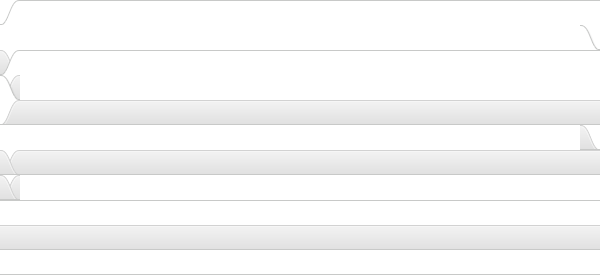
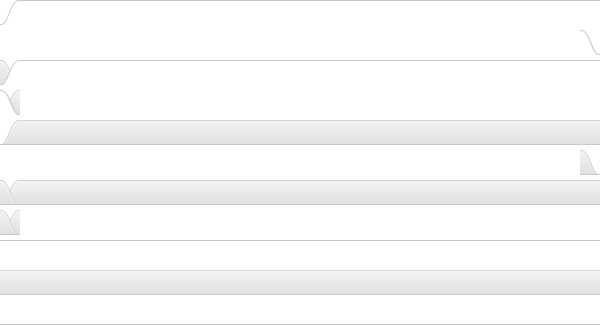
update issue 666 タブメニューが1個のみの場合、「<li class="first last single">」と、最初であり最後かつ、「single」を入れる。 Storeタブは右詰レイヤーへ囲み入れる。
iOS4以前のiPadSafariは想定外の余白を取るような表示バグ？があるため
タブ用画像サイズを調整することで対応しました。

git-svn-id: http://aipo.googlecode.com/svn/trunk@2339 b7d4e767-949e-c8c6-5735-6c11b8a2f74f

diff --git a/r607/themes/aipoUI/css/aui.css b/r607/themes/aipoUI/css/aui.css
@@ -260,42 +260,50 @@ table.activityTable tr.unread td {
 	height:25px;
 	line-height:25px;
 	padding-left:20px;
-	background:url(../images/tab.png) left -150px no-repeat;
+	background:url(../images/tab.png) left -180px no-repeat;
 }
 #auiTabs .setting {
 	float:left;
 	height:25px;
-	background:url(../images/tab.png) left -225px no-repeat;
+	background:url(../images/tab.png) left -270px no-repeat;
 }
 #auiTabs .first .title {
-	background:url(../images/tab.png) left -100px no-repeat;
+	background:url(../images/tab.png) left -120px no-repeat;
 }
 #auiTabs .last {
 	padding-right:20px;
-	background:url(../images/tab.png) right -125px no-repeat;
+	background:url(../images/tab.png) right -150px no-repeat;
+}
+#auiTabs .single {
+	padding-right:20px;
+	background:url(../images/tab.png) right -30px no-repeat;
+}
+#auiTabs .store {
+	padding-right:20px;
+	background:url(../images/tab.png) right -150px no-repeat;
 }
 #auiTabs .active .title {
-	background:url(../images/tab.png) left -50px no-repeat;
+	background:url(../images/tab.png) left -60px no-repeat;
 }
 #auiTabs .active .setting {
-	background:url(../images/tab.png) left -200px no-repeat;
+	background:url(../images/tab.png) left -240px no-repeat;
 }
 #auiTabs .activeNext {
 	padding-left:20px;
-	background:url(../images/tab.png) left -75px no-repeat;
+	background:url(../images/tab.png) left -90px no-repeat;
 }
 #auiTabs .activeNext .title {
 	padding-left:0;
-	background:url(../images/tab.png) left -225px no-repeat;
+	background:url(../images/tab.png) left -270px no-repeat;
 }
 #auiTabs .first .active .title {
 	background:url(../images/tab.png) left -0px no-repeat;
 }
 #auiTabs .last .active {
-	background:url(../images/tab.png) right -25px no-repeat;
+	background:url(../images/tab.png) right -30px no-repeat;
 }
 #auiTabs .last .activeNext {
-	background:url(../images/tab.png) left -75px no-repeat;
+	background:url(../images/tab.png) left -90px no-repeat;
 }
 
 
@@ -329,24 +337,17 @@ table.activityTable tr.unread td {
 	height:25px;
 	background:url(../images/tab.png) right -0px no-repeat;
 }
-#auiTabs .store {
-	position:relative;
-}
 .tooltip_gray {
 	display:none;
 }
-#auiTabs .store:hover .tooltip_gray {
-	display:block;
-	height:14px;
-	width:190px;
-	background:url(../images/common/bg_tooltip_gray.gif) top left no-repeat;
-	position:absolute;
-	top:-30px;
-	padding:3px 0 8px;
-	font-size:10px;
-	text-align:center;
+#auiTabs .singleTab {
+	height:25px;
+	line-height:25px;
+	background:url(../images/tab.png) left -100px no-repeat;
 }
-
+#auiTabs .singleTab a {
+	text-decoration:none;
+}
 
 /***************************************************
 	MainTab

diff --git a/r607/aipoUI/index.html b/r607/aipoUI/index.html
@@ -66,7 +66,7 @@
 <!-- MAIN TAB -->
 <div id="auiTabs" class="clearfix">
 	<ul>
-    	<li class="first">
+    	<li class="first last single">
         	<div class="tab active">
                 <div class="title"><a href="#">マイページ</a></div>
                 <div class="setting"><a href="javascript:void(0);" title="ページ設定" class="auiIcon auiIconSetting"></a></div>
@@ -88,13 +88,16 @@
                 <div class="title"><a href="#">システム管理</a></div>
             </div>
         </li>-->
-    	<li class="last store">
-        	<div class="tab activeNext">
-                <div class="title"><a href="#">Aipo Store</a></div>
-            </div>
-            <div class="tooltip_gray">Aipoアプリを追加して、もっと便利に</div>
-        </li>
     </ul>
+    <div class="floatRight">
+    	<ul>
+    	<li class="first store">
+        	<div class="tab">
+                <div class="title"><a href="http://store.aipo.com" target="_blank">Aipo Store</a></div>
+            </div>
+        </li>
+        </ul>
+    </div>
 </div>
 <!--
 <div id="mainTab" class="clearfix">
